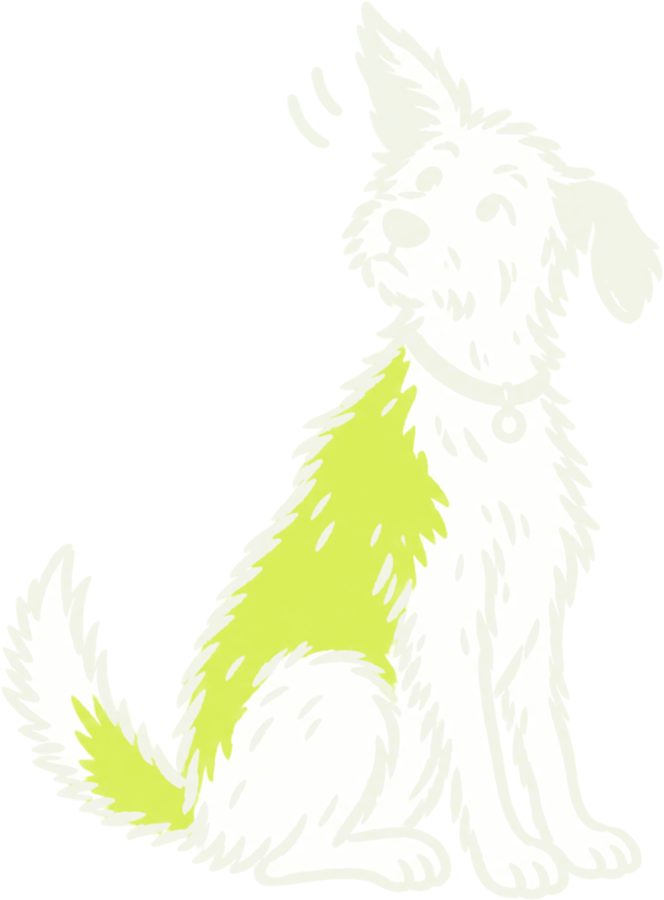
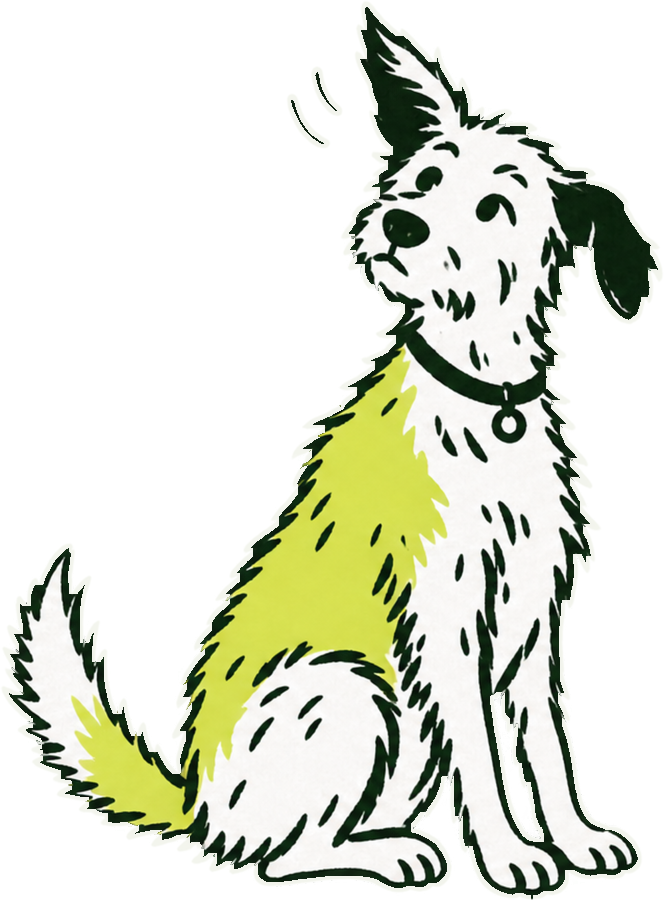
Steckbrief wie das Website-Profil: Porträt in der App, alle Shell-Varianten mit weißem Fell
- zoomie-shell und listening-shell bekommen die Behandlung der anderen Posen
  (Fell weiß, Außenlinie Kreide); scripts/derive-shell.py macht sie reproduzierbar.
- app-avatar-shell.png für das Porträt im Dunkelmodus der App.
- Entscheidungen in 05 Illustration und 09 Komponenten; Steckbrief ohne Schalen-Hero.

diff --git a/scripts/derive-shell.py b/scripts/derive-shell.py
@@ -1,0 +1,66 @@
+#!/usr/bin/env python3
+"""
+Derive a *-shell.png (for the dark clover shell) from a light illustration.
+
+The owner's decision of 2026-10-21 (guide/05-illustration.md): the white coat stays
+opaque white, inner ink stays clover ink, and only ink that touches the transparent
+outside (the silhouette and the motion marks) turns chalk, so the drawing keeps its
+outline on a dark ground. Felt is untouched.
+
+Usage: python3 scripts/derive-shell.py <source.png> <target-shell.png> [--band 6]
+Writes the PNG and a sidecar <target>.json naming the source and the transform.
+"""
+import json
+import sys
+from datetime import datetime, timezone
+from pathlib import Path
+
+import numpy as np
+from PIL import Image, ImageFilter
+
+INK = np.array([0x14, 0x30, 0x1F])
+CHALK = np.array([0xF2, 0xF4, 0xEC])
+
+
+def derive(src: Path, dst: Path, band: int) -> None:
+    im = Image.open(src).convert("RGBA")
+    px = np.array(im).astype(np.int16)
+    rgb, alpha = px[..., :3], px[..., 3]
+
+    # Ink: dark pixels of any opacity. Felt and white never qualify.
+    ink = (rgb.max(axis=2) < 110) & (alpha > 0)
+    # The transparent outside, grown by `band` pixels so the outline strokes fall in it.
+    outside = Image.fromarray(((alpha < 40) * 255).astype(np.uint8), "L")
+    near_outside = np.array(outside.filter(ImageFilter.MaxFilter(2 * band + 1))) > 0
+
+    recolour = ink & near_outside
+    out = px.copy()
+    out[recolour, :3] = CHALK
+    Image.fromarray(out.astype(np.uint8), "RGBA").save(dst, optimize=True)
+
+    sidecar = {
+        "prompt": (
+            f"Derived from {src.name} by a deterministic pixel pass for dark ground "
+            "(scripts/derive-shell.py): the white coat stays opaque white, inner ink stays #14301F, "
+            f"ink within {band}px of the transparent outside (silhouette, motion marks) is recoloured to "
+            "chalk #F2F4EC, felt kept. Owner decision 2026-10-21; applied to every pose 2026-10-24."
+        ),
+        "createdAt": datetime.now(timezone.utc).isoformat(timespec="milliseconds").replace("+00:00", "Z"),
+        "tool": "scripts/derive-shell.py (python PIL/numpy edge pass)",
+        "derivedFrom": str(src.relative_to(Path(__file__).resolve().parent.parent)),
+        "transform": f"silhouette ink within {band}px of transparency -> #F2F4EC; inner ink, white and felt kept",
+    }
+    Path(str(dst) + ".json").write_text(json.dumps(sidecar, indent=2) + "\n")
+
+
+if __name__ == "__main__":
+    argv = sys.argv[1:]
+    band = 6
+    if "--band" in argv:
+        at = argv.index("--band")
+        band = int(argv[at + 1])
+        del argv[at : at + 2]
+    args = argv
+    if len(args) != 2:
+        sys.exit(__doc__)
+    derive(Path(args[0]).resolve(), Path(args[1]).resolve(), band)

diff --git a/guide/05-illustration.md b/guide/05-illustration.md
@@ -33,11 +33,11 @@ Alle Posen sind so beschnitten, dass sie etwa gleich hoch stehen. Seitenverhält
 
 ## Shell-Varianten
 
-Jede Pose hat eine `*-shell.png`: helle Linie (Kreide), Fell ausgespart, dieselben Filzflächen. Sie gehört auf die Kleeschale und auf jede dunkle Fläche, weil Tintenlinien dort verschwinden. In der App wählt `Illustration` im Dunkelmodus automatisch die Shell-Variante. Die Originale mit weißem Fell gehören auf Weiß und Kleeboden.
+Jede Pose hat eine `*-shell.png` für die Kleeschale und jede dunkle Fläche, weil Tintenlinien dort verschwinden: Fell und Zettel bleiben weiß, die inneren Linien Tinte, nur die Außenlinie (Silhouette und Bewegungsstriche) wird Kreide. Dieselben Filzflächen. Seit dem 24.10.2026 gilt das für alle Posen und für das Porträt der Website; `scripts/derive-shell.py` leitet eine Shell-Variante deterministisch aus dem Original ab und schreibt die Sidecar-Datei. In der App wählt `Illustration` im Dunkelmodus automatisch die Shell-Variante. Die Originale gehören auf Weiß und Kleeboden.
 
-Nie ein Original auf Dunkel, nie eine Shell-Variante auf Hell. Ausnahmen `papers-shell.png`, `sniffing-shell.png`, `bowl-shell.png`, `tag-shell.png`, `lead-shell.png`, `ball-shell.png` und `resting-shell.png`: Fell und Zettel bleiben weiß, nur die Außenlinie wird Kreide (siehe Entscheidungen unten). Ausgespart bleiben nur noch `zoomie-shell.png` und `listening-shell.png`.
+Nie ein Original auf Dunkel, nie eine Shell-Variante auf Hell.
 
-Die Website nutzt seit dem 24.10.2026 einen eigenen Posensatz unter `assets/illustrations/website/`: derselbe Hund im Stil des freigegebenen Website-Entwurfs (dichterer Strich, Fell weiß mit Filzflecken, Halsband mit rundem Filzanhänger), erzeugt aus dem Entwurf und dann aus seiner Hero-Pose als Stilreferenz; dazu Requisiten (Grasbüschel, die Hundemarke „Zoomer“). Jede Datei trägt ihren Prompt und ihre Herkunft in der `.png.json` daneben. Neue Website-Posen entstehen hier aus `hero-dog.png` als Referenz. Ob die App-Posen diesem Stil folgen, ist offen.
+Die Website nutzt seit dem 24.10.2026 einen eigenen Posensatz unter `assets/illustrations/website/`: derselbe Hund im Stil des freigegebenen Website-Entwurfs (dichterer Strich, Fell weiß mit Filzflecken, Halsband mit rundem Filzanhänger), erzeugt aus dem Entwurf und dann aus seiner Hero-Pose als Stilreferenz; dazu Requisiten (Grasbüschel, die Hundemarke „Zoomer“). Jede Datei trägt ihren Prompt und ihre Herkunft in der `.png.json` daneben. Neue Website-Posen entstehen hier aus `hero-dog.png` als Referenz. Das Porträt `app-avatar.png` (mit `app-avatar-shell.png`) ist seit dem 24.10.2026 auch der Platzhalter für einen Hund ohne Foto im Steckbrief der App. Ob die übrigen App-Posen diesem Stil folgen, ist offen.
 
 Für Hilfe, Blog und Social liegen unter `assets/illustrations/web/` WebP-Kopien (höchstens 1600 px breit, die Wiese 2880 px), aus den PNG erzeugt; die Website kopiert nur diese.
 
@@ -93,3 +93,9 @@ Entscheidung: `assets/illustrations/website/` mit hero-dog, feature-dog, app-ava
 Offen: die App-Posen in diesem Stil neu zeichnen, damit App und Website einen Hund haben.
 Web: namelessjames/frappies-web#17.
 
+
+### 2026-10-24: Alle Shell-Varianten mit weißem Fell; das Porträt kommt in die App
+Kontext: Der Steckbrief der App soll aussehen wie das Hundeprofil im Hero der Website (Wunsch des Inhabers): das gezeichnete Porträt über dem Namen. Die App hatte für Zoomie und Listening noch die alten Shell-Varianten mit ausgespartem Fell, sodass im Dunkelmodus zwei Behandlungen desselben Hundes nebeneinander standen. Fall 2 (bestehende Shell-Varianten ändern sich; ein Website-Asset bekommt eine App-Rolle).
+Entscheidung: `zoomie-shell.png` und `listening-shell.png` bekommen dieselbe Behandlung wie die anderen Posen (Fell weiß, Außenlinie Kreide), erzeugt mit `scripts/derive-shell.py`, das die Behandlung reproduzierbar macht. `app-avatar.png` wird in der App zum Porträt eines Hundes ohne Foto, mit `app-avatar-shell.png` für den Dunkelmodus; die App kopiert beide byte-genau. Damit stehen in der App zwei Strichstärken desselben Hundes (Porträt dicht, Posen locker); die Posen der App in den Website-Stil zu überführen bleibt die offene Frage vom 24.10.2026 und ist der empfohlene nächste Schritt.
+Verworfen: ein Porträt im lockeren App-Stil generieren (der Inhaber hat den Website-Hund gewählt; ein drittes Bild würde die offene Frage nicht lösen), Initiale statt Porträt (der Website-Entwurf lebt vom Hund), die alten Shell-Varianten behalten (zwei Behandlungen in einer App).
+App: namelessjames/frappies (PR folgt).

diff --git a/guide/09-komponenten.md b/guide/09-komponenten.md
@@ -43,12 +43,14 @@ Ein Primärbutton pro Bildschirm. Nebeneinander stehende Buttons teilen eine Zei
 | Eigenschaft | Wert |
 |---|---|
 | Radius | 18 px |
-| Füllung | `card` auf `background`; `shell` für Home-Header und Hero-Karten |
+| Füllung | `card` auf `background`; `shell` für Home-Header und die Hero-Karte des Profils |
 | Schatten, Rand | keiner |
 | Innenabstand | 16 px für Listen und Zellen, 20 px für Prosa und Formulare |
 | Zeilen | 64 bis 68 px, 1 px Heckenlinie dazwischen |
 
 **Akten-Zelle:** 116 px, Zahl (Figure) oben links, Label (Row Title) und letzte Zeile (Meta) unten links, die ganze Zelle ist der Button. Barrierefreier Name: „Label: Zahl, letzter Eintrag“. Null steht in Salbei.
+
+**Steckbrief (Hundeprofil):** kein Schalen-Hero. Auf dem Kleeboden zentriert das Porträt (Foto im 120-px-Kreis, sonst `app-avatar.png` 200 px breit), darunter der Name in Display 32 und eine Zeile Figtree SemiBold 15 in Salbei: Alter · Gewicht · Rasse, Unbekanntes fällt weg. Dann „Als Nächstes“ mit den Zeilen der Home-Spur nur für diesen Hund (Ball, Erledigen, Zeit-Chip), die Akte als Zeilen des Gesundheits-Hubs (Zahl plus letzter Eintrag), die Basisdaten als Label-Wert-Zeilen (52 px, Heckenlinie) mit dem Sekundärbutton „Angaben bearbeiten“ darunter, zuletzt die KI-Werkzeuge. Eine leere Akte zeigt statt Spur und Akte die Karte „Leg los mit der Akte“.
 
 **Hundekarte auf Home:** eine Zeile pro Hund mit Avatar, Name (Headline), Status heute („Heute 2 Sachen fällig“ / „Heute alles erledigt“) und „Als Nächstes: …“. Der Ball sitzt links im 40-px-Slot.
 
@@ -113,6 +115,12 @@ Leere Listen nutzen `RecordEmpty` mit einer Pose aus [05 Illustration](05-illust
 - **Fußzeile der Website:** auf Kleeboden unter einer Heckenlinie, Meta 13/18 in Salbei, Links nach den Link-Regeln oben: Impressum, Datenschutz, Nutzungsbedingungen, Hilfe, Konto löschen, dazu contact@frappies.app. Keine Wortmarke, kein Filz, keine Illustration, keine Social-Icons.
 
 ## Entscheidungen
+
+### 2026-10-24: Der Steckbrief folgt dem Hundeprofil der Website
+Kontext: Der Inhaber will das Hundeprofil der App so wie das Profil im Hero der Website: Porträt, Name, eine Zeile mit Alter, Gewicht und Rasse, darunter was heute ansteht und was als Nächstes kommt. Der bisherige Steckbrief war eine Schalen-Hero-Karte mit Initiale und Zoomie, darunter fünf Karten mit Aufzählungen ohne Zahlen. Fall 2 (eine bestehende Komponente ändert sich).
+Entscheidung: Der Steckbrief verliert die Schalen-Hero-Karte; das Porträt steht zentriert auf dem Kleeboden (siehe „Karten“). „Als Nächstes“ nutzt dieselbe Zeile wie Home, mit Ball, Erledigen und rollendem Ball; die Akte nutzt dieselben Zeilen wie der Gesundheits-Hub, damit keine Zahl ohne Eintrag steht. Die Schale bleibt dem Home-Header, dem Hub-Intro und der Hero-Karte des Profils.
+Verworfen: Porträt in der Schalen-Karte (die Website zeigt das Profil auf hellem Grund, und die Schale verdeckt die Tintenlinien des Porträts), die Website-Karte mit Filz-Icon-Kacheln (Filz heißt Nächstes, nicht Rubrik), weißer Kartenschatten wie auf der Website (verletzt „Tonal Step“).
+App: namelessjames/frappies (PR folgt).
 
 ### 2026-10-21: Sprachwechsel und Fußzeile der Website
 Kontext: Die Landingpage (namelessjames/frappies-web#6) braucht einen Weg zur englischen Seite und auf jeder Seite einen Link zum Impressum. Beides deckte die Marke nicht ab. Fall 1 (neue Komponente).

diff --git a/README.md b/README.md
@@ -51,8 +51,8 @@ node scripts/check-contrast.js   # Kontrasttabelle, Exit 1 bei Verstoß
 |---|---|
 | [`assets/logo/`](assets/logo/) | Bildmarke (`mark*.svg/png`), Wortmarke (`wordmark-*.svg/png`), Wortmarken-Geometrie (`wordmark.json`) |
 | [`assets/app-icon/`](assets/app-icon/) | App-Icon iOS, Android Adaptive (Vorder-, Hintergrund, Monochrom), Splash, Favicon |
-| [`assets/illustrations/`](assets/illustrations/) | Acht Posen des Frappies-Hundes, je Original und `*-shell`-Variante, mit eingebetteter Herkunft (`*.png.json`) |
-| [`assets/illustrations/website/`](assets/illustrations/website/) | Der Posensatz der Website im Stil des Entwurfs vom 24.10.2026, mit Requisiten, je mit Prompt-Sidecar |
+| [`assets/illustrations/`](assets/illustrations/) | Acht Posen des Frappies-Hundes, je Original und `*-shell`-Variante (`scripts/derive-shell.py`), mit eingebetteter Herkunft (`*.png.json`) |
+| [`assets/illustrations/website/`](assets/illustrations/website/) | Der Posensatz der Website im Stil des Entwurfs vom 24.10.2026, mit Requisiten, je mit Prompt-Sidecar; `app-avatar.png` ist auch das Porträt im Steckbrief der App |
 | [`assets/textures/`](assets/textures/) | Die Filzkörnung der Website-Flächen |
 | [`assets/email/`](assets/email/) | Wortmarke als PNG für E-Mail-Clients |
 

diff --git a/guide/02-farbe.md b/guide/02-farbe.md
@@ -42,7 +42,7 @@ Eine Kleerampe für jedes Neutral, ein Filzakzent, ein Orange als Alarm. Die Pal
 
 | Name | Token | Hell | Dunkel | Rolle |
 |---|---|---|---|---|
-| Kleeschale | `shell` | #14301F | #1F3F2B | Der dunkle Header auf Home, Hero-Karten von Hund und Profil |
+| Kleeschale | `shell` | #14301F | #1F3F2B | Der dunkle Header auf Home, das Hub-Intro, die Hero-Karte des Profils |
 | Schalentext | `shell-foreground` | #F2F4EC | #EEF2E6 | Text auf der Schale |
 | Schale gedämpft | `shell-muted` | #A9B8A6 | #A9B8A6 | Zweite Textebene auf der Schale |
 | Schale erhöht | `shell-raised` | #22432F | #2C5239 | Avatar-Mulde auf der Schale |
